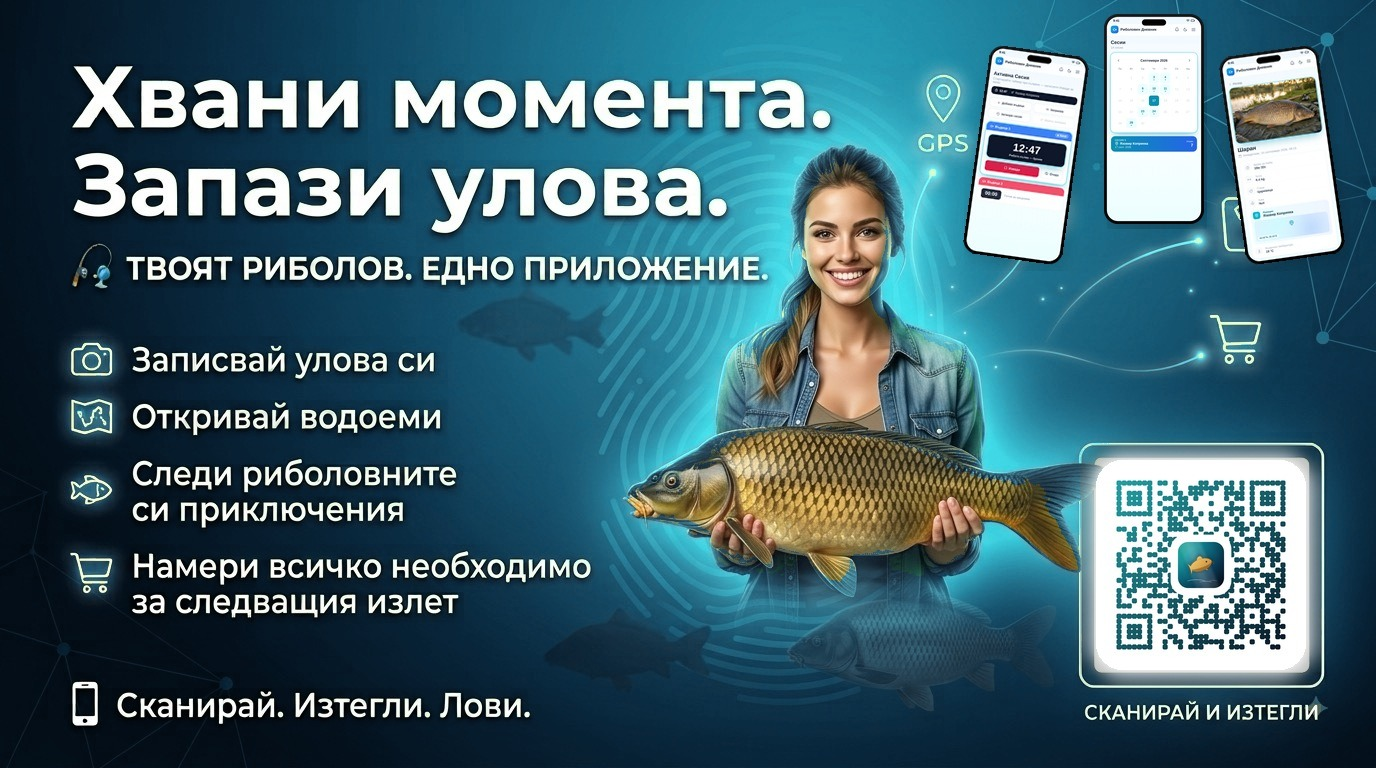
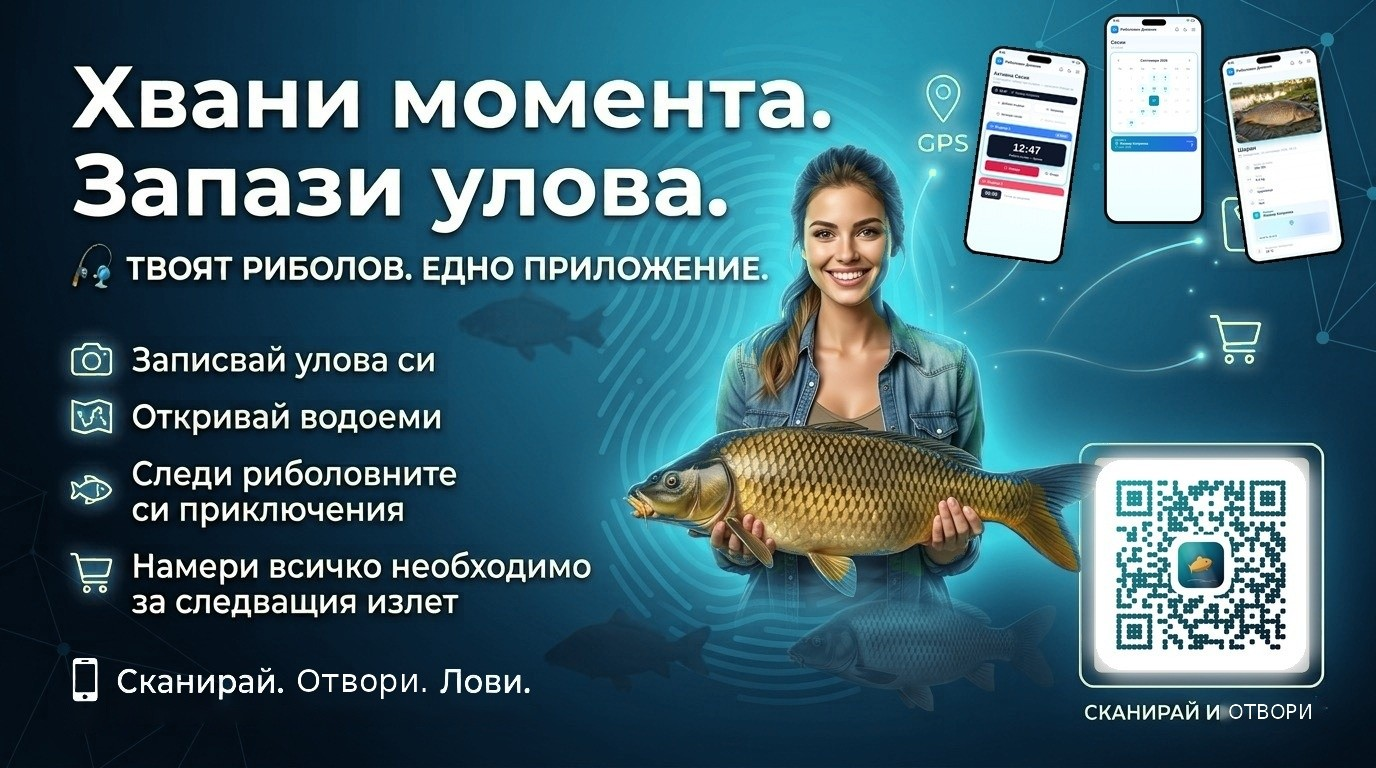
3.25

Changed region(s): [[0.0312, 0.8438, 0.4062, 0.9375], [0.875, 0.9062, 0.9688, 0.9375]]

diff --git a/src/pages/WaterBodyManagement.jsx b/src/pages/WaterBodyManagement.jsx
@@ -404,6 +404,14 @@ export default function WaterBodyManagement() {
   // v3.21 — the water body pending a brochure download, while
   // BrochureContactDialog is open asking for an optional contact line.
   const [brochureTarget, setBrochureTarget] = useState(null);
+  // v3.25 — same BrochureContactDialog reuse, this time in front of the
+  // "Списък участници" / "Изтегли жребий (снимка)" image exports (both
+  // embed the water body's real brochure at the bottom — see
+  // standingsImage.js's renderRowsPage — so the same optional contact line
+  // applies). Holds the competition pending each export while its dialog is
+  // open; null when neither is open.
+  const [participantsImageTarget, setParticipantsImageTarget] = useState(null);
+  const [drawResultsImageTarget, setDrawResultsImageTarget] = useState(null);
   // v2.91 — "delete a closed competition" (see deleteClosedCompetition).
   const [deletingCompId, setDeletingCompId] = useState("");
   // v2.80 — participant list + CSV export for a competition, per the
@@ -1222,6 +1230,11 @@ export default function WaterBodyManagement() {
     setReorderParticipants(false);
     setParticipantsOrderDraft(null);
     setResultsDraft({});
+    // v3.25 — these two dialogs stack on top of the participants dialog
+    // (see the buttons/handlers above); clear them too so a stale target
+    // never lingers if the participants dialog itself gets closed first.
+    setParticipantsImageTarget(null);
+    setDrawResultsImageTarget(null);
   }
 
   // v3.09 — one round's weight input for one participant, edited in place
@@ -1301,7 +1314,12 @@ export default function WaterBodyManagement() {
   // handleDownloadStandingsImage above (see standingsImage.js), just fed
   // the raw registrations instead of a ranked list — ordering/numbering by
   // registration order happens inside downloadParticipantsImage itself.
-  async function handleDownloadParticipantsImage(comp) {
+  // v3.25 — now takes the same optional contact-text line the brochure
+  // download offers (collected by BrochureContactDialog, see the button's
+  // onClick below and the dialog render near the end of this component) —
+  // it's passed straight through to the brochure embedded at the bottom of
+  // this image.
+  async function handleDownloadParticipantsImage(comp, contactText) {
     setGeneratingParticipantsImage(true);
     try {
       await downloadParticipantsImage({
@@ -1312,7 +1330,9 @@ export default function WaterBodyManagement() {
         filename: `uchastnici-${(comp.title || "sastezanie").toLowerCase().replace(/[^a-z0-9а-я]+/gi, "-")}.png`,
         t,
         lang,
+        contactText,
       });
+      setParticipantsImageTarget(null);
     } catch (e) {
       toast({ title: t("comp.errorGeneratingImage"), description: e.message, variant: "destructive" });
     } finally {
@@ -1325,7 +1345,9 @@ export default function WaterBodyManagement() {
   // right next to "Изтегли CSV" in the participants dialog footer, only
   // once at least one registration has a drawn box (see the button's own
   // conditional render below), so there's never an empty/pointless image.
-  async function handleDownloadDrawResultsImage(comp) {
+  // v3.25 — same contactText addition as handleDownloadParticipantsImage
+  // above, same reasoning.
+  async function handleDownloadDrawResultsImage(comp, contactText) {
     setGeneratingDrawResultsImage(true);
     try {
       await downloadDrawResultsImage({
@@ -1336,7 +1358,9 @@ export default function WaterBodyManagement() {
         filename: `zhrebiy-${(comp.title || "sastezanie").toLowerCase().replace(/[^a-z0-9а-я]+/gi, "-")}.png`,
         t,
         lang,
+        contactText,
       });
+      setDrawResultsImageTarget(null);
     } catch (e) {
       toast({ title: t("comp.errorGeneratingImage"), description: e.message, variant: "destructive" });
     } finally {
@@ -2310,7 +2334,7 @@ export default function WaterBodyManagement() {
                 registration, independent of any draw/results. */}
             <Button
               variant="outline"
-              onClick={() => handleDownloadParticipantsImage(participantsFor)}
+              onClick={() => setParticipantsImageTarget(participantsFor)}
               disabled={generatingParticipantsImage}
               className="min-h-[44px]"
             >
@@ -2335,7 +2359,7 @@ export default function WaterBodyManagement() {
             {participantsFor && regsFor(participantsFor.id).some((r) => r.assigned_box != null) && (
               <Button
                 variant="outline"
-                onClick={() => handleDownloadDrawResultsImage(participantsFor)}
+                onClick={() => setDrawResultsImageTarget(participantsFor)}
                 disabled={generatingDrawResultsImage}
                 className="min-h-[44px]"
               >
@@ -2565,6 +2589,30 @@ export default function WaterBodyManagement() {
         defaultValue=""
         downloading={!!brochureTarget && downloadingId === brochureTarget.id}
         onConfirm={(text, format) => handleDownloadBrochure(brochureTarget, text, format)}
+      />
+
+      {/* v3.25 — same dialog, reused for the two other exports that embed
+          this water body's brochure (see the handlers/buttons above).
+          showFormat=false: both exports are always PNG. */}
+      <BrochureContactDialog
+        open={!!participantsImageTarget}
+        onOpenChange={(open) => { if (!open) setParticipantsImageTarget(null); }}
+        defaultValue=""
+        showFormat={false}
+        title={t("comp.downloadParticipantsImage")}
+        confirmLabel={t("comp.downloadParticipantsImage")}
+        downloading={generatingParticipantsImage}
+        onConfirm={(text) => handleDownloadParticipantsImage(participantsImageTarget, text)}
+      />
+      <BrochureContactDialog
+        open={!!drawResultsImageTarget}
+        onOpenChange={(open) => { if (!open) setDrawResultsImageTarget(null); }}
+        defaultValue=""
+        showFormat={false}
+        title={t("wb.exportDrawResults")}
+        confirmLabel={t("wb.exportDrawResults")}
+        downloading={generatingDrawResultsImage}
+        onConfirm={(text) => handleDownloadDrawResultsImage(drawResultsImageTarget, text)}
       />
     </div>
   );

diff --git a/src/lib/brochure.js b/src/lib/brochure.js
@@ -36,18 +36,30 @@ import QRCode from "qrcode";
  * so a trader/admin handing out several brochures can tell them apart
  * without opening each PDF. Uses the CatchCountBrochure custom font
  * (public/fonts/*.ttf) so the added text matches the reference graphic's
- * own "СКАНИРАЙ И ИЗТЕГЛИ" label style instead of a generic system font.
+ * own "СКАНИРАЙ И ОТВОРИ" label style instead of a generic system font.
  *
  * v3.21 — an optional second line of free text (see drawContactText below),
  * drawn in the template's other empty strip — directly under the existing
- * "Сканирай. Изтегли. Лови." caption, bottom-left — for the owner/admin/
+ * "Сканирай. Отвори. Лови." caption, bottom-left — for the owner/admin/
  * merchant to add their own contact info before downloading (prompted by
- * src/components/BrochureContactDialog.jsx on all three download screens).
- * Deliberately free text with NO icon drawn next to it and NO forced
- * uppercase/format: the box is offered as "add a phone number" but the
- * trader may just as well want a website, a Facebook page, or a custom
- * label like "За резервация тел.: ...", so the app must not assume it's a
- * phone number and slap a phone glyph in front of whatever they typed.
+ * src/components/BrochureContactDialog.jsx). Deliberately free text with NO
+ * icon drawn next to it and NO forced uppercase/format: the box is offered
+ * as "add a phone number" but the trader may just as well want a website, a
+ * Facebook page, or a custom label like "За резервация тел.: ...", so the
+ * app must not assume it's a phone number and slap a phone glyph in front
+ * of whatever they typed.
+ *
+ * v3.25 — the reference graphic itself (public/brochure-template.jpg) was
+ * edited in two ways, at the trader's request: every "Изтегли"/"ИЗТЕГЛИ"
+ * ("download") was replaced with "Отвори"/"ОТВОРИ" ("open"), since this is
+ * a web app reached by opening a link/QR, not something installed from
+ * Google Play/the App Store — "download" was actively misleading. And the
+ * "Сканирай. Отвори. Лови." caption was nudged up 24px to leave more room
+ * below it (see CONTACT_BASELINE_Y below, moved up by the same amount so
+ * the optional contact line keeps the gap it always had beneath that
+ * caption). Same "same source file, untouched pixels" approach as always —
+ * this is a one-time edit to the shared template asset, not something drawn
+ * per-download.
  */
 
 const TEMPLATE_URL = "/brochure-template.jpg";
@@ -179,15 +191,25 @@ function drawVenueName(ctx, name) {
 }
 
 // Draws the optional free-text contact line, left-aligned, in the empty
-// dark strip below the template's own "Сканирай. Изтегли. Лови." caption
-// (that caption's icon sits at x=73, y≈690-725; the strip below it, y≈724-
+// dark strip below the template's own "Сканирай. Отвори. Лови." caption
+// (that caption's icon sits at x=73, y≈666-701; the strip below it, y≈700-
 // 768, is empty background across the full width of the template — measured
 // directly on the source image the same way BADGE_*/NAME_* above were).
 // Left-aligned (not centered like the venue name) so it reads as a
 // continuation of the caption line above it, and capped well short of the
 // QR badge (BADGE_X = 1096) so a long line never runs into it.
+//
+// v3.25 — the template asset itself was edited: "Изтегли"/"ИЗТЕГЛИ" was
+// replaced with "Отвори"/"ОТВОРИ" everywhere in the graphic (the app is a
+// web app, not something installed from Google Play/App Store, so
+// "download" was misleading — the QR just opens it), and the caption line
+// was moved up 24px (icon+text top 682→658, baseline 716→692) to leave more
+// breathing room at the bottom edge. CONTACT_BASELINE_Y moves up by the same
+// 24px so this line keeps the same visual gap below the caption it always
+// had (they read as one continuous two-line block, so they had to move
+// together, not just the caption alone).
 const CONTACT_X = 73;
-const CONTACT_BASELINE_Y = 752;
+const CONTACT_BASELINE_Y = 728;
 const CONTACT_MAX_WIDTH = 950;
 const CONTACT_MAX_FONT = 24;
 const CONTACT_MIN_FONT = 13;

diff --git a/src/pages/TraderVenues.jsx b/src/pages/TraderVenues.jsx
@@ -1,5 +1,5 @@
 import React, { useCallback, useEffect, useState } from "react";
-import { Store, Download, Loader2, Power, Pencil, Upload, X } from "lucide-react";
+import { Store, Download, Loader2, Power, Pencil, Upload, X, Image as ImageIcon } from "lucide-react";
 import { Button } from "@/components/ui/button";
 import { Input } from "@/components/ui/input";
 import { Label } from "@/components/ui/label";
@@ -163,25 +163,41 @@ export default function TraderVenues() {
           {venues.map((v) => (
             <div key={v.id} className="rounded-2xl bg-white border border-slate-100 dark:bg-card dark:border-border p-4 shadow-sm space-y-3">
               <div className="flex items-start justify-between gap-2">
-                <div className="min-w-0">
-                  <h2 className="font-bold text-slate-800 dark:text-foreground truncate">{v.name}</h2>
-                  {v.address && <p className="text-xs text-slate-400 truncate">{v.address}</p>}
-                  <div className="flex flex-wrap gap-1 mt-1">
-                    {v.status === "pending" && (
-                      <span className="inline-block text-[10px] px-1.5 py-0.5 rounded bg-amber-100 text-amber-700 dark:bg-amber-900/30 dark:text-amber-400">
-                        {t("awb.pending")}
-                      </span>
-                    )}
-                    {v.status === "rejected" && (
-                      <span className="inline-block text-[10px] px-1.5 py-0.5 rounded bg-red-100 text-red-600 dark:bg-red-900/30 dark:text-red-400">
-                        {t("awb.statusRejected")}
-                      </span>
-                    )}
-                    {!v.is_active && (
-                      <span className="inline-block text-[10px] px-1.5 py-0.5 rounded bg-slate-200 text-slate-600 dark:bg-accent dark:text-muted-foreground">
-                        {t("tv.inactive")}
-                      </span>
-                    )}
+                <div className="flex items-start gap-3 min-w-0">
+                  {/* v3.24 — same logo thumbnail CommercialVenues.jsx shows publicly,
+                      so the merchant sees it right on their own card list too,
+                      not only inside the edit dialog while changing it. */}
+                  {v.logo_url ? (
+                    <img
+                      src={v.logo_url}
+                      alt={v.name}
+                      className="w-12 h-12 rounded-xl object-cover flex-shrink-0 border border-slate-100 dark:border-border"
+                    />
+                  ) : (
+                    <div className="w-12 h-12 rounded-xl bg-slate-50 dark:bg-accent flex items-center justify-center flex-shrink-0">
+                      <ImageIcon className="w-5 h-5 text-slate-300" />
+                    </div>
+                  )}
+                  <div className="min-w-0">
+                    <h2 className="font-bold text-slate-800 dark:text-foreground truncate">{v.name}</h2>
+                    {v.address && <p className="text-xs text-slate-400 truncate">{v.address}</p>}
+                    <div className="flex flex-wrap gap-1 mt-1">
+                      {v.status === "pending" && (
+                        <span className="inline-block text-[10px] px-1.5 py-0.5 rounded bg-amber-100 text-amber-700 dark:bg-amber-900/30 dark:text-amber-400">
+                          {t("awb.pending")}
+                        </span>
+                      )}
+                      {v.status === "rejected" && (
+                        <span className="inline-block text-[10px] px-1.5 py-0.5 rounded bg-red-100 text-red-600 dark:bg-red-900/30 dark:text-red-400">
+                          {t("awb.statusRejected")}
+                        </span>
+                      )}
+                      {!v.is_active && (
+                        <span className="inline-block text-[10px] px-1.5 py-0.5 rounded bg-slate-200 text-slate-600 dark:bg-accent dark:text-muted-foreground">
+                          {t("tv.inactive")}
+                        </span>
+                      )}
+                    </div>
                   </div>
                 </div>
                 <div className="flex flex-wrap gap-2 flex-shrink-0">

diff --git a/src/components/BrochureContactDialog.jsx b/src/components/BrochureContactDialog.jsx
@@ -25,9 +25,25 @@ import { useLanguage } from "@/lib/i18n";
 // dialog now fronts every brochure download in the app, including the
 // venue-independent "generic" brochure in AdminSetup.jsx (which has no
 // `defaultValue` to prefill from). `onConfirm(text, format)` gets both.
+//
+// v3.25 — reused (not just for the brochure itself) by the "Списък
+// участници" and "Изтегли жребий (снимка)" image exports in
+// WaterBodyManagement.jsx: both of those already embed this water body's
+// actual brochure at the bottom of the exported image (see
+// src/lib/standingsImage.js's renderRowsPage), so the same optional contact
+// line applies there too. Those two exports are always PNG (canvas-drawn,
+// not routed through downloadInviteBrochure's format branches), so
+// `showFormat = false` hides the format picker for them — passing `format`
+// to their onConfirm would be meaningless. `title`/`confirmLabel` let those
+// callers relabel the dialog/button for what's actually being exported
+// ("Списък участници" / "Изтегли жребий (снимка)") instead of the brochure
+// wording, without needing new translation keys — both reuse existing ones.
 const FORMATS = ["pdf", "jpg", "png"];
 
-export default function BrochureContactDialog({ open, onOpenChange, defaultValue, downloading, onConfirm }) {
+export default function BrochureContactDialog({
+  open, onOpenChange, defaultValue, downloading, onConfirm,
+  showFormat = true, title, confirmLabel,
+}) {
   const { t } = useLanguage();
   const [text, setText] = useState(defaultValue || "");
   const [format, setFormat] = useState("pdf");
@@ -43,7 +59,7 @@ export default function BrochureContactDialog({ open, onOpenChange, defaultValue
     <Dialog open={open} onOpenChange={(o) => { if (!downloading) onOpenChange(o); }}>
       <DialogContent className="sm:max-w-md">
         <DialogHeader>
-          <DialogTitle>{t("brochure.contactTitle")}</DialogTitle>
+          <DialogTitle>{title || t("brochure.contactTitle")}</DialogTitle>
         </DialogHeader>
         <div className="space-y-4">
           <div className="space-y-1.5">
@@ -57,17 +73,19 @@ export default function BrochureContactDialog({ open, onOpenChange, defaultValue
             />
             <p className="text-xs text-slate-500 dark:text-slate-400">{t("brochure.contactHint")}</p>
           </div>
-          <div className="space-y-1.5">
-            <Label>{t("brochure.formatLabel")}</Label>
-            <Select value={format} onValueChange={setFormat}>
-              <SelectTrigger className="min-h-[44px]"><SelectValue /></SelectTrigger>
-              <SelectContent>
-                {FORMATS.map((f) => (
-                  <SelectItem key={f} value={f}>{t(`brochure.format.${f}`)}</SelectItem>
-                ))}
-              </SelectContent>
-            </Select>
-          </div>
+          {showFormat && (
+            <div className="space-y-1.5">
+              <Label>{t("brochure.formatLabel")}</Label>
+              <Select value={format} onValueChange={setFormat}>
+                <SelectTrigger className="min-h-[44px]"><SelectValue /></SelectTrigger>
+                <SelectContent>
+                  {FORMATS.map((f) => (
+                    <SelectItem key={f} value={f}>{t(`brochure.format.${f}`)}</SelectItem>
+                  ))}
+                </SelectContent>
+              </Select>
+            </div>
+          )}
         </div>
         <DialogFooter>
           <Button variant="outline" onClick={() => onOpenChange(false)} disabled={downloading}>
@@ -75,7 +93,7 @@ export default function BrochureContactDialog({ open, onOpenChange, defaultValue
           </Button>
           <Button onClick={() => onConfirm(text.trim(), format)} disabled={downloading}>
             {downloading ? <Loader2 className="w-4 h-4 mr-1 animate-spin" /> : <Download className="w-4 h-4 mr-1" />}
-            {t("tv.downloadBrochure")}
+            {confirmLabel || t("tv.downloadBrochure")}
           </Button>
         </DialogFooter>
       </DialogContent>

diff --git a/src/lib/standingsImage.js b/src/lib/standingsImage.js
@@ -313,7 +313,7 @@ async function drawHeader(ctx, box, icon, text, t) {
 // callers.
 async function renderRowsPage({
   rowCount, drawRow, headerIcon, headerText, emptyMessage,
-  competition, waterBody, filename,
+  competition, waterBody, filename, contactText,
 }) {
   const colCount = rowCount > COLUMN_SPLIT_THRESHOLD ? 2 : 1;
   const rowH = colCount === 2 ? 58 : 66;
@@ -327,6 +327,7 @@ async function renderRowsPage({
       brochureCanvas = await renderBrochureCanvas({
         link: getMerchantBrochureLink("water_body", competition.water_body_id),
         name: waterBody?.name || competition?.water_body_name || "",
+        contactText,
       });
     } catch {
       brochureCanvas = null; // template asset failed to load — the list alone still works
@@ -430,8 +431,12 @@ export async function downloadStandingsImage({ ranked, title, competition, water
  * participants list in WaterBodyManagement.jsx's own dialog — v2.90) and
  * numbers them continuously across main+reserve.
  * title/competition/waterBody/filename/t/lang — same as downloadStandingsImage.
+ * contactText — v3.25, same optional free-text line as the brochure's own
+ * (BrochureContactDialog, reused here — see that component's own comment):
+ * passed straight through to the embedded brochure at the bottom of this
+ * image, same as downloadDrawResultsImage below.
  */
-export async function downloadParticipantsImage({ registrations, title, competition, waterBody, filename, t, lang }) {
+export async function downloadParticipantsImage({ registrations, title, competition, waterBody, filename, t, lang, contactText }) {
   const list = (registrations || [])
     .slice()
     .sort((a, b) => new Date(a.list_order_at || a.created_at) - new Date(b.list_order_at || b.created_at));
@@ -446,6 +451,7 @@ export async function downloadParticipantsImage({ registrations, title, competit
     competition,
     waterBody,
     filename,
+    contactText,
   });
 }
 
@@ -471,8 +477,15 @@ export async function downloadParticipantsImage({ registrations, title, competit
  * straight to their own row by it — scanning a box-sorted seating chart for
  * one name out of 28+ doesn't scale nearly as well as looking up a known
  * number does.
+ *
+ * v3.25 — contactText: same optional free-text line the brochure download
+ * itself offers (BrochureContactDialog), now also collected before this
+ * export — see that component's own comment on why (both this image and
+ * downloadParticipantsImage embed the water body's real brochure at the
+ * bottom, unchanged, so whatever contact line the owner/merchant adds shows
+ * up there exactly the same way).
  */
-export async function downloadDrawResultsImage({ registrations, title, competition, waterBody, filename, t, lang }) {
+export async function downloadDrawResultsImage({ registrations, title, competition, waterBody, filename, t, lang, contactText }) {
   const allOrdered = (registrations || [])
     .slice()
     .sort((a, b) => new Date(a.list_order_at || a.created_at) - new Date(b.list_order_at || b.created_at));
@@ -489,5 +502,6 @@ export async function downloadDrawResultsImage({ registrations, title, competiti
     competition,
     waterBody,
     filename,
+    contactText,
   });
 }

diff --git a/src/lib/version.js b/src/lib/version.js
@@ -1,2 +1,2 @@
-export const APP_VERSION = "3.23";
+export const APP_VERSION = "3.25";
 export const APP_VERSION_DATE = "2026-09-19";
